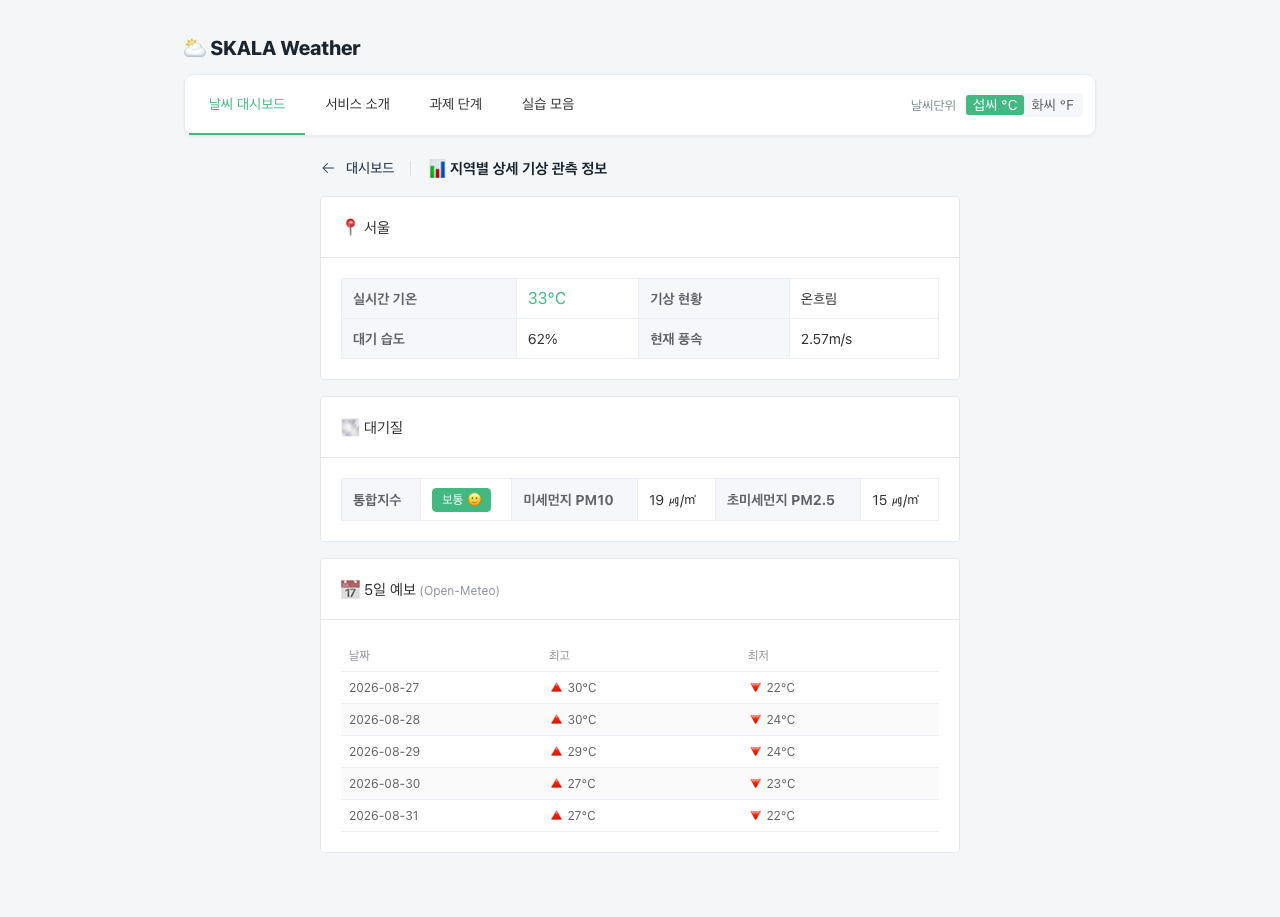
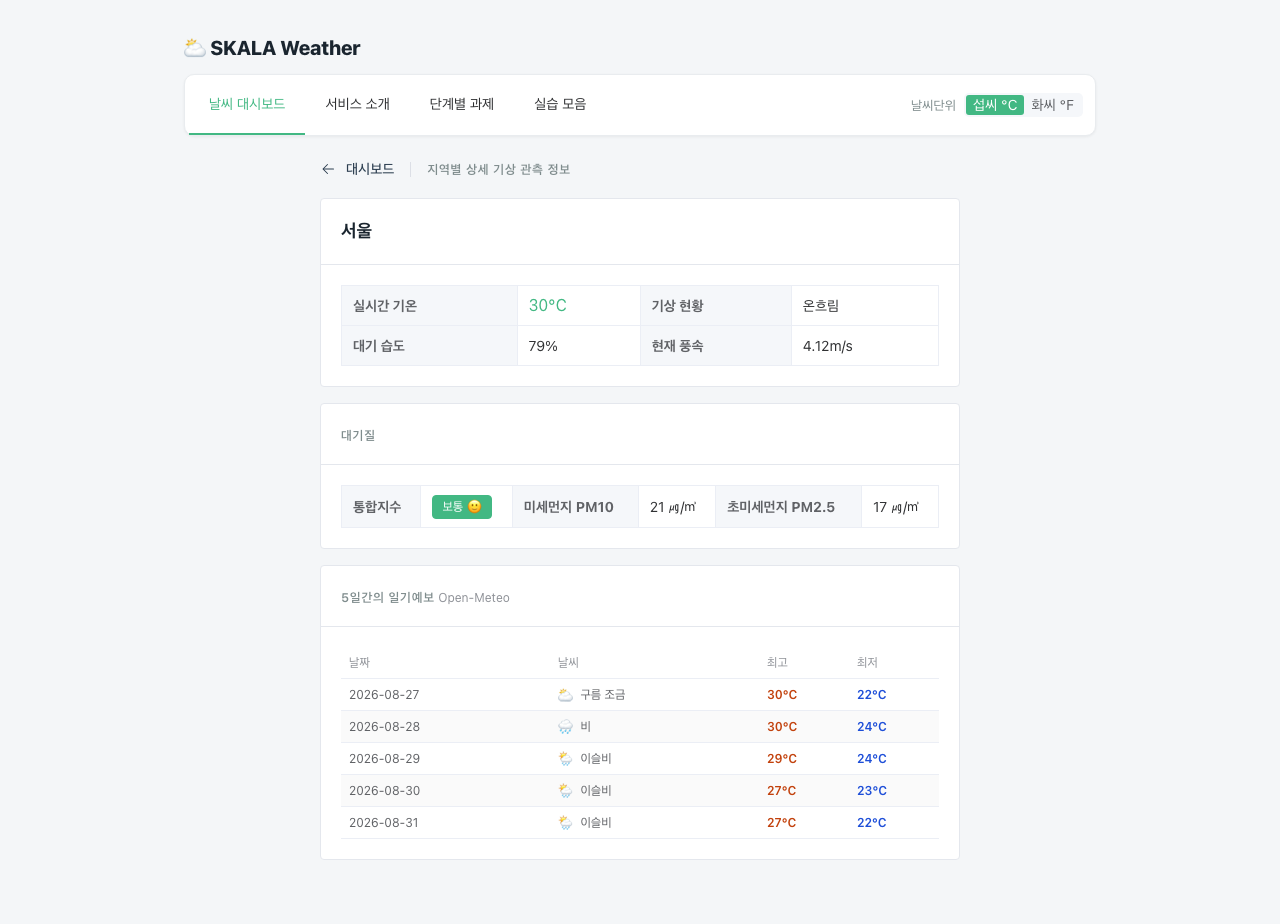
docs: 화면별 스크린샷 갱신

diff --git a/README.md b/README.md
@@ -62,7 +62,7 @@ VITE_WEATHER_API_KEY=여기에_키
 | 경로               | 내용                                                 |
 | ------------------ | ---------------------------------------------------- |
 | `/`                | 메인 대시보드. 도시를 검색하고 카드 목록을 봅니다    |
-| `/weather/:cityId` | 도시 상세. 현재 날씨 + 미세먼지 + 5일 예보           |
+| `/weather/:cityId` | 도시 상세. 현재 날씨 + 미세먼지 + 5일간의 일기예보   |
 | `/about`           | 서비스 소개                                          |
 | `/steps`           | 과제 1~3 단계별 결과물                               |
 | `/practice`        | Code Challenge 실습 모음. 챕터별 탭으로 나눠뒀습니다 |
@@ -97,9 +97,9 @@ VITE_WEATHER_API_KEY=여기에_키
 
 ![상세 페이지](docs/screenshots/02-detail.png)
 
-- 현재 날씨 → 대기질 · 5일 예보 순으로 호출. 뒤 두 개는 서로 무관해서 `Promise.all` 로 동시에
+- 현재 날씨 → 대기질 · 일기예보 순으로 호출. 뒤 두 개는 서로 무관해서 `Promise.all` 로 동시에
 - OpenWeatherMap(날씨 · 대기오염) 과 Open-Meteo(예보) 두 곳을 씀
-- 대기질 등급에 따라 `el-tag` 색이 바뀌고, 예보는 `el-table` 로 표시
+- 대기질 등급에 따라 `el-tag` 색이 바뀌고, 예보는 `el-table` 로 날짜·날씨·최고·최저를 표시
 
 ### Code Challenge 실습 모음
 
@@ -259,7 +259,7 @@ src/
 - `normalize()` 응답 정규화 계층
 - 로딩·에러 상태와 `try-catch-finally` 처리
 - 대기오염 API로 미세먼지 표시 (요구사항 2)
-- Open-Meteo 연동으로 5일 예보 표시 (요구사항 3)
+- Open-Meteo 연동으로 5일간의 일기예보 표시 — WMO 코드를 한글 날씨로 해석 (요구사항 3)
 
 **변경**
 
